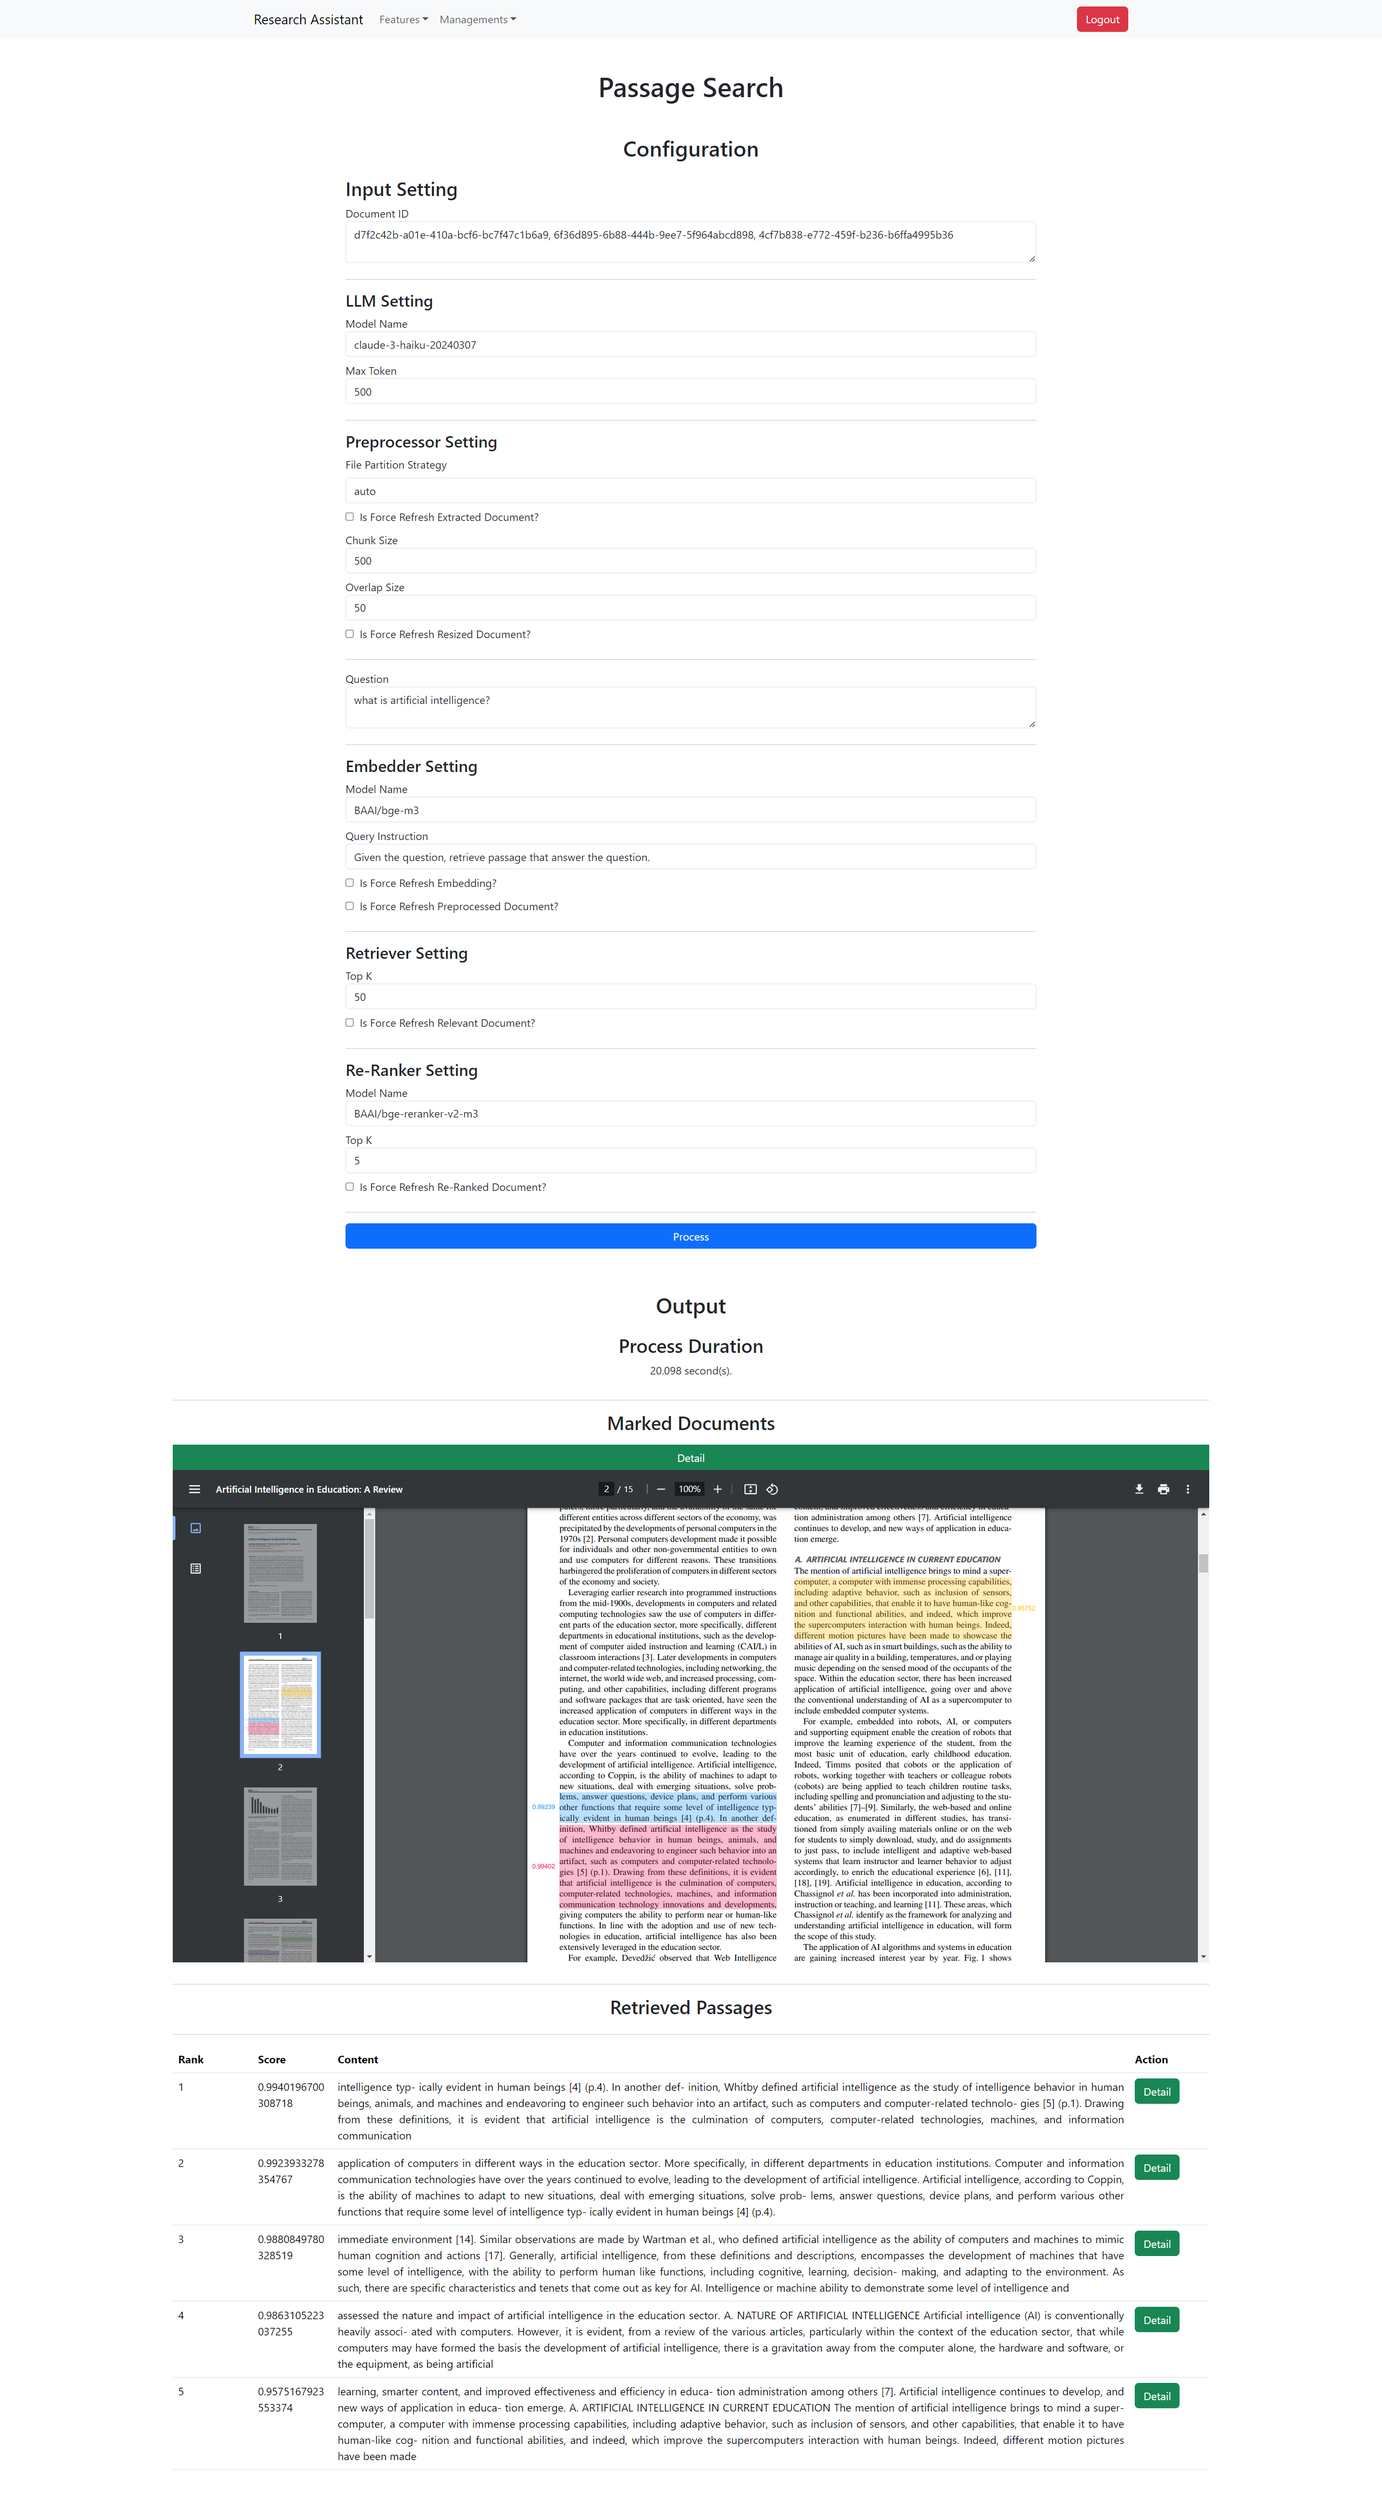
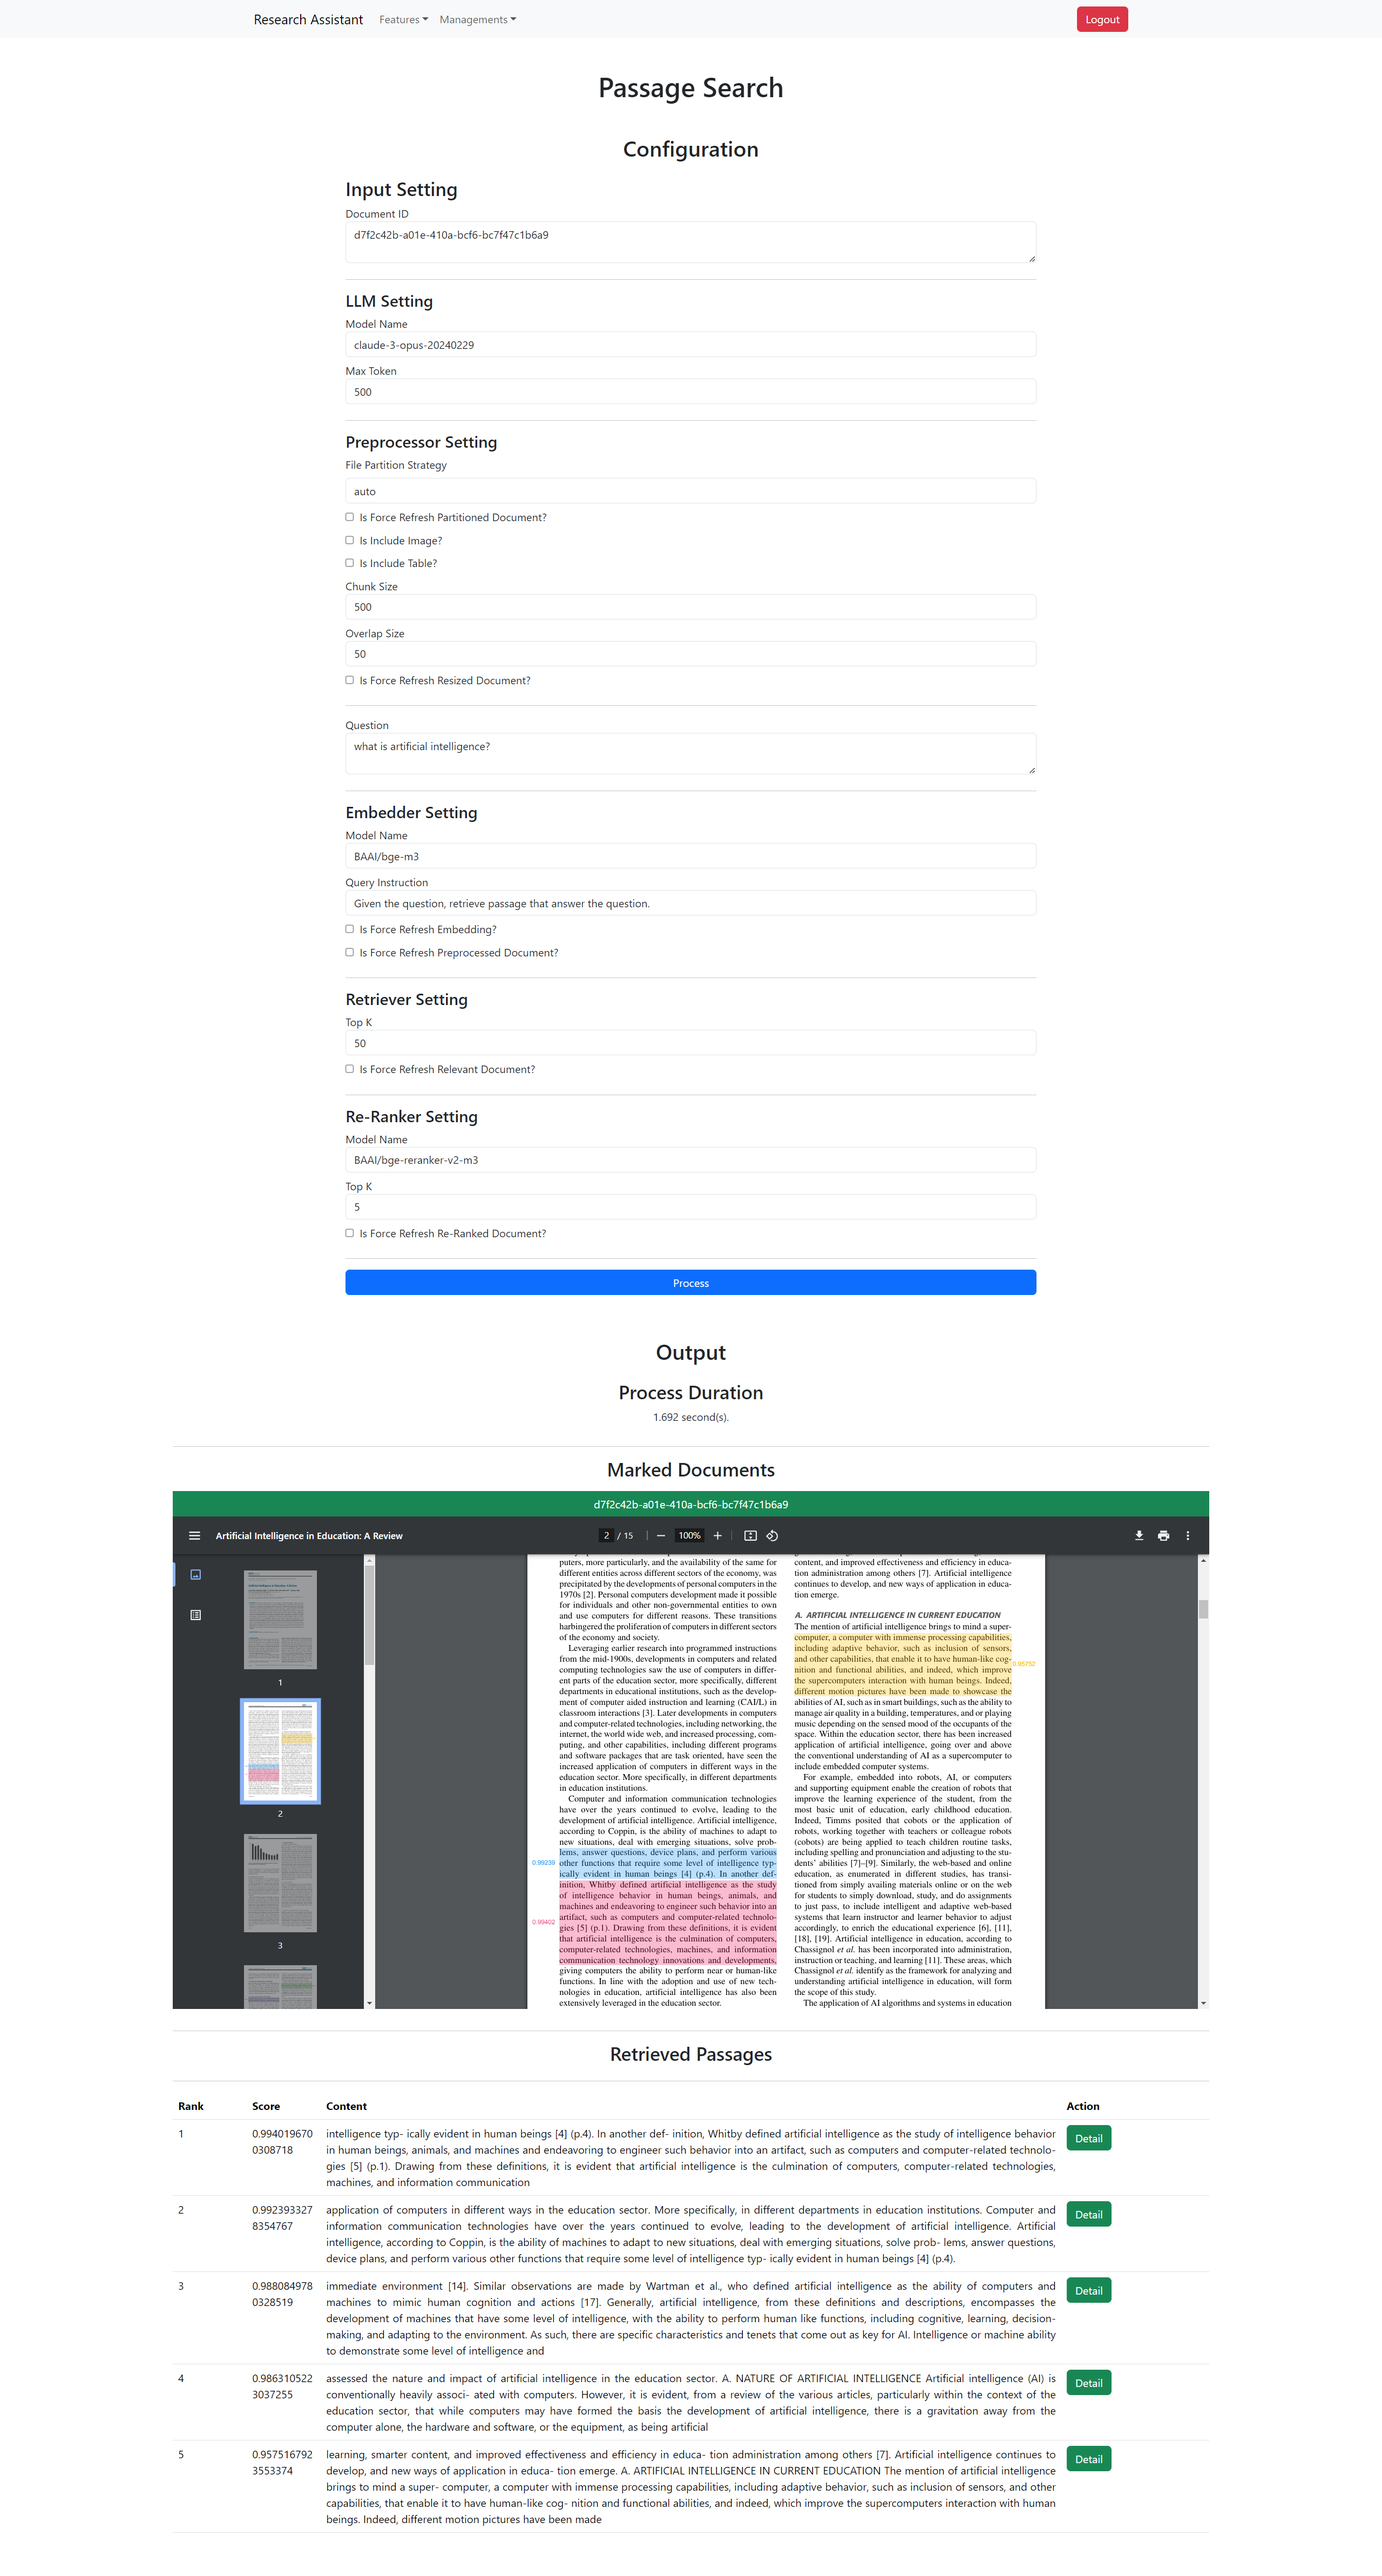
Update README.md

Changed region(s): [[0.125, 0.0623, 0.875, 0.9968], [0.4375, 0.0311, 0.5625, 0.0623], [0.1875, 0.7476, 0.2188, 0.7787]]

diff --git a/src/pages/features/PassageSearchPage.tsx b/src/pages/features/PassageSearchPage.tsx
@@ -38,7 +38,7 @@ export default function PassageSearchPage (): React.JSX.Element {
     inputSetting: {
       documentIds: [],
       llmSetting: {
-        modelName: 'claude-3-haiku-20240307',
+        modelName: 'claude-3-opus-20240229',
         maxToken: 500
       },
       preprocessorSetting: {
@@ -249,6 +249,34 @@ export default function PassageSearchPage (): React.JSX.Element {
             />
             <label htmlFor="inputSetting.preprocessorSetting.isForceRefreshCategorizedElement" className="ms-2">
               Is Force Refresh Partitioned Document?
+            </label>
+          </fieldset>
+          <fieldset className="mb-2 d-flex">
+            <input
+                type="checkbox"
+                id="inputSetting.preprocessorSetting.isIncludeImage"
+                name="inputSetting.preprocessorSetting.isIncludeImage"
+                className="form-check"
+                onChange={formik.handleChange}
+                onBlur={formik.handleBlur}
+                checked={formik.values.inputSetting!.preprocessorSetting!.isIncludeImage}
+            />
+            <label htmlFor="inputSetting.preprocessorSetting.isIncludeImage" className="ms-2">
+              Is Include Image?
+            </label>
+          </fieldset>
+          <fieldset className="mb-2 d-flex">
+            <input
+                type="checkbox"
+                id="inputSetting.preprocessorSetting.isIncludeTable"
+                name="inputSetting.preprocessorSetting.isIncludeTable"
+                className="form-check"
+                onChange={formik.handleChange}
+                onBlur={formik.handleBlur}
+                checked={formik.values.inputSetting!.preprocessorSetting!.isIncludeTable}
+            />
+            <label htmlFor="inputSetting.preprocessorSetting.isIncludeTable" className="ms-2">
+              Is Include Table?
             </label>
           </fieldset>
           <fieldset className="mb-2">
@@ -486,15 +514,17 @@ export default function PassageSearchPage (): React.JSX.Element {
             passageSearchProcessResponse !== undefined
               ? passageSearchProcessResponse.finalDocumentUrls!.map((finalDocumentUrl, index) => {
                 return (
-                    <div
-                        className="d-flex flex-column justify-content-center align-items-center mb-3 w-100"
-                        key={index}
-                    >
+                      <div
+                          className="d-flex flex-column justify-content-center align-items-center mb-3 w-100"
+                          key={index}
+                      >
                         <button
                             className="btn btn-success w-100 rounded-0"
-                          onClick={() => { handleClickDocumentId(formik.values.inputSetting!.documentIds![index]) }}
+                            onClick={() => {
+                              handleClickDocumentId(formik.values.inputSetting!.documentIds![index])
+                            }}
                         >
-                          Detail
+                          {formik.values.inputSetting!.documentIds![index]}
                         </button>
                       <embed
                           style={{

diff --git a/src/pages/features/LongFormQaPage.tsx b/src/pages/features/LongFormQaPage.tsx
@@ -37,7 +37,7 @@ export default function LongFormQaPage (): React.JSX.Element {
     inputSetting: {
       documentIds: [],
       llmSetting: {
-        modelName: 'claude-3-haiku-20240307',
+        modelName: 'claude-3-opus-20240229',
         maxToken: 500
       },
       preprocessorSetting: {
@@ -236,6 +236,34 @@ Answer:`,
                     />
                     <label htmlFor="inputSetting.preprocessorSetting.isForceRefreshCategorizedElement" className="ms-2">
                         Is Force Refresh Partitioned Document?
+                    </label>
+                </fieldset>
+                <fieldset className="mb-2 d-flex">
+                    <input
+                        type="checkbox"
+                        id="inputSetting.preprocessorSetting.isIncludeImage"
+                        name="inputSetting.preprocessorSetting.isIncludeImage"
+                        className="form-check"
+                        onChange={formik.handleChange}
+                        onBlur={formik.handleBlur}
+                        checked={formik.values.inputSetting!.preprocessorSetting!.isIncludeImage}
+                    />
+                    <label htmlFor="inputSetting.preprocessorSetting.isIncludeImage" className="ms-2">
+                        Is Include Image?
+                    </label>
+                </fieldset>
+                <fieldset className="mb-2 d-flex">
+                    <input
+                        type="checkbox"
+                        id="inputSetting.preprocessorSetting.isIncludeTable"
+                        name="inputSetting.preprocessorSetting.isIncludeTable"
+                        className="form-check"
+                        onChange={formik.handleChange}
+                        onBlur={formik.handleBlur}
+                        checked={formik.values.inputSetting!.preprocessorSetting!.isIncludeTable}
+                    />
+                    <label htmlFor="inputSetting.preprocessorSetting.isIncludeTable" className="ms-2">
+                        Is Include Table?
                     </label>
                 </fieldset>
                 <fieldset className="mb-2">

diff --git a/README.md b/README.md
@@ -10,9 +10,9 @@
 ![document_management.png](public/document_management.png)
 
 ## Getting Started
-1. Clone [infrastructure](https://github.com/muazhari/research-assistant-infrastructure), [backend](https://github.com/muazhari/research-assistant-backend) and [frontend](https://github.com/muazhari/research-assistant-frontend) repositories.
-2. Setup infrastructure, backend and frontend dependencies.
-3. Run the infrastructure, backend and frontend services. 
+1. Clone [infrastructure](https://github.com/muazhari/research-assistant-infrastructure), [backend](https://github.com/muazhari/research-assistant-backend), and [frontend](https://github.com/muazhari/research-assistant-frontend) repositories.
+2. Setup infrastructure, backend, and frontend dependencies.
+3. Run the infrastructure, backend, and frontend services. 
 
 ## Setup
 
